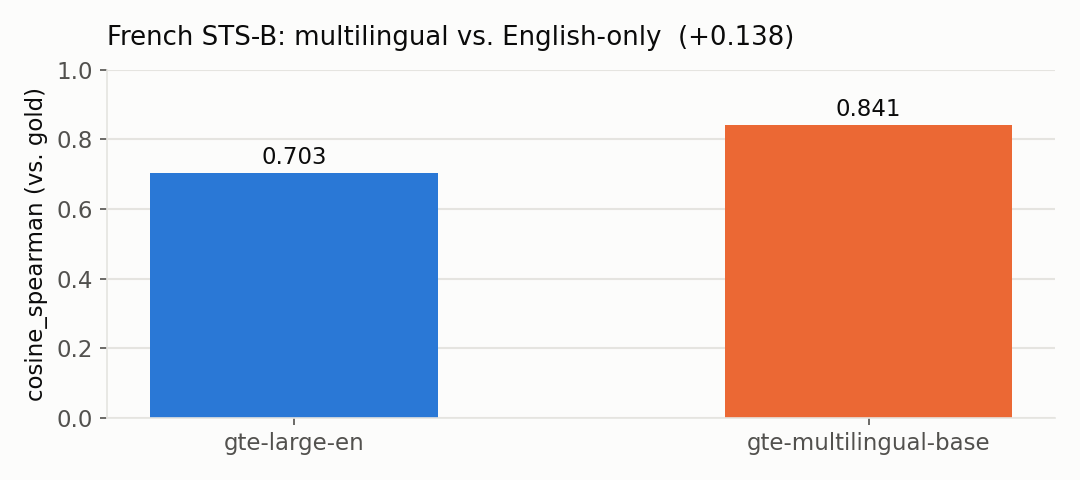
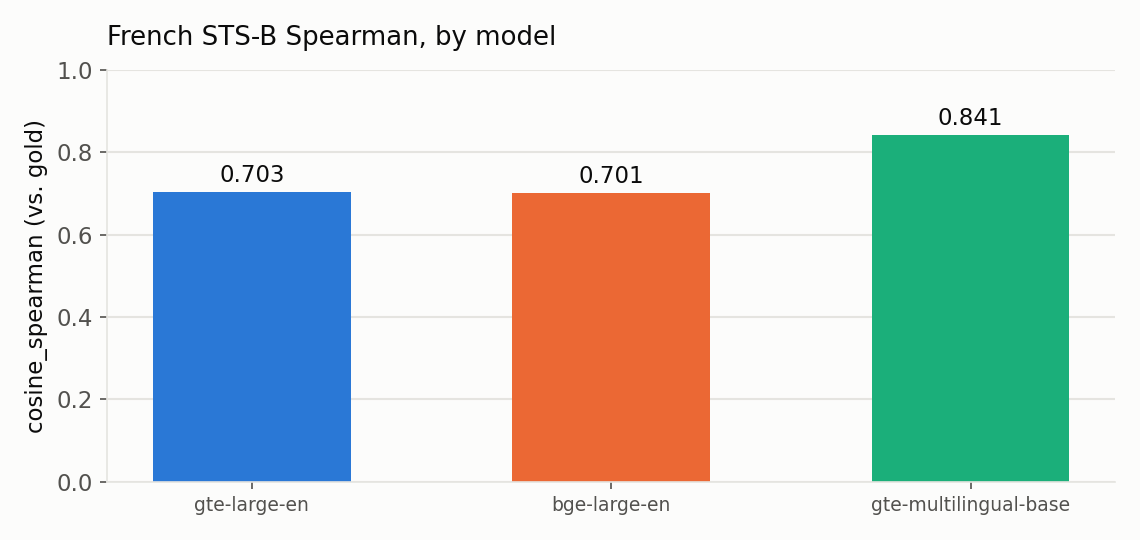
Add BGE (FMAPI) as a third model in the benchmark
Adds databricks-bge-large-en via FMAPI alongside gte-large-en (FMAPI) and
gte-multilingual-base (CPU). Three-model STS-B results:
  gte-large-en          EN 0.831  FR 0.703  FR/EN 0.846
  bge-large-en          EN 0.875  FR 0.701  FR/EN 0.801
  gte-multilingual-base EN 0.864  FR 0.841  FR/EN 0.973
BGE is best on English but drops hardest on French; the multilingual model
still wins French. Updates notebook, charts (3 models), README, SPECS, RESULTS.

diff --git a/gte-french/README.md b/gte-french/README.md
@@ -1,9 +1,11 @@
-# GTE embeddings — French vs. English benchmark
+# GTE / BGE embeddings — French vs. English benchmark
 
-How much embedding quality does the English-tuned GTE model
-(**`databricks-gte-large-en`**, served via the Databricks Foundation Model API) lose on
-**French** relative to **English** — and does the **multilingual** GTE
-(**`Alibaba-NLP/gte-multilingual-base`**, run locally on CPU) close that gap?
+How much embedding quality do English-tuned models lose on **French** vs. **English**, and
+does a **multilingual** model close that gap? Three models, same pairs and metric:
+
+- **`databricks-gte-large-en`** — Databricks FMAPI endpoint (English-tuned GTE)
+- **`databricks-bge-large-en`** — Databricks FMAPI endpoint (English-tuned BGE)
+- **`Alibaba-NLP/gte-multilingual-base`** — downloaded from HuggingFace, run locally on CPU
 
 The benchmark runs the [STS Benchmark](https://huggingface.co/datasets/PhilipMay/stsb_multi_mt)
 in parallel on both languages — the *same* 1,379 sentence pairs with *identical* gold
@@ -15,34 +17,34 @@ identical across languages, any gap is attributable to language alone.
 
 ![STS-B Spearman: English vs. French, by model](assets/sts_by_model.png)
 
-![French STS-B: multilingual vs. English-only](assets/french_model_comparison.png)
+![French STS-B Spearman, by model](assets/french_model_comparison.png)
 
 | Model | EN `cosine_spearman` | FR `cosine_spearman` | FR/EN ratio |
 |-------|---------------------:|---------------------:|------------:|
 | `gte-large-en` (FMAPI) | 0.831 | 0.703 | 0.846 |
-| `gte-multilingual-base` (CPU) | **0.864** | **0.841** | **0.973** |
+| `bge-large-en` (FMAPI) | **0.875** | 0.701 | 0.801 |
+| `gte-multilingual-base` (CPU) | 0.864 | **0.841** | **0.973** |
 
 ### Verdict
 
-The English-only `gte-large-en` score (0.831) matches its published STS-B result, which
-validates the harness. On **French** it drops to 0.703 — usable, but a **~15% relative
-penalty**.
+Both English-tuned FMAPI endpoints land at **~0.70 on French** despite strong English
+scores — `bge-large-en` is actually the best model on English (0.875) but drops the hardest
+on French (FR/EN 0.80). So a higher English score does **not** predict French quality.
 
-**`gte-multilingual-base` largely erases that penalty:** French Spearman **0.841**
-(**+0.138** over the English-only model), an FR/EN ratio of **0.97** vs. 0.85. It's even
-marginally stronger on English (0.864). For French-heavy retrieval/search, the multilingual
-model is the clear choice — at the cost of hosting it yourself (here: downloaded from
-HuggingFace and run on CPU) rather than a managed FMAPI endpoint.
+**`gte-multilingual-base` is the clear choice for French:** French Spearman **0.841**
+(+0.14 over either English-only model), an FR/EN ratio of **0.97**. The trade-off is hosting
+it yourself (here: downloaded from HuggingFace, run on CPU) rather than a managed FMAPI
+endpoint.
 
 ## Running it
 
-`benchmark_gte_french.ipynb` runs on **serverless** compute. It benchmarks two models:
+`benchmark_gte_french.ipynb` runs on **serverless** compute and benchmarks all three models:
 
-- **`gte-large-en`** via the FMAPI endpoint (no local model).
+- **`gte-large-en`** and **`bge-large-en`** via their FMAPI endpoints (no local model).
 - **`gte-multilingual-base`** downloaded from HuggingFace and run locally on CPU via
-  `sentence-transformers`. Notes baked into the notebook: pin `transformers>=4.41,<5` (the
-  model's custom code calls `ModuleUtilsMixin` helpers removed in v5); cache the model in a
-  UC Volume via a symlink-dereferenced copy (HF can't download onto a FUSE Volume); load with
+  `sentence-transformers`. Notes baked into the notebook: pin `transformers>=4.41,<5` (its
+  custom code calls `ModuleUtilsMixin` helpers removed in v5); cache the model in a UC Volume
+  via a symlink-dereferenced copy (HF can't download onto a FUSE Volume); load with
   `low_cpu_mem_usage=False` and rebuild the non-persistent `position_ids`/RoPE buffers.
 
 On first run it downloads STS-B and the model into a UC Volume and caches both; later runs
@@ -61,7 +63,7 @@ skip the downloads.
 
 | Path | What |
 |------|------|
-| [`benchmark_gte_french.ipynb`](benchmark_gte_french.ipynb) | The two-model benchmark notebook |
+| [`benchmark_gte_french.ipynb`](benchmark_gte_french.ipynb) | The three-model benchmark notebook |
 | [`test_multilingual_load.ipynb`](test_multilingual_load.ipynb) | Diagnostic: load the multilingual model on CPU |
 | [`SPEC/SPECS.md`](SPEC/SPECS.md) | Full specification (dataset, metric, method) |
 | [`SPEC/RESULTS.md`](SPEC/RESULTS.md) | Recorded run + verdict |

diff --git a/gte-french/SPEC/RESULTS.md b/gte-french/SPEC/RESULTS.md
@@ -1,9 +1,10 @@
-# Results — GTE embeddings, French vs. English (STS)
+# Results — GTE / BGE embeddings, French vs. English (STS)
 
 Run of `benchmark_gte_french.ipynb` per [`SPECS.md`](./SPECS.md).
 
-- **Models:** `databricks-gte-large-en` (FMAPI) and `Alibaba-NLP/gte-multilingual-base`
-  (downloaded from HuggingFace, run locally on CPU via `sentence-transformers`)
+- **Models:** `databricks-gte-large-en` (FMAPI), `databricks-bge-large-en` (FMAPI), and
+  `Alibaba-NLP/gte-multilingual-base` (downloaded from HuggingFace, run locally on CPU via
+  `sentence-transformers`)
 - **Dataset:** `PhilipMay/stsb_multi_mt`, `test` split, 1,379 pairs per language
 - **Metric:** Spearman correlation of cosine similarity vs. gold score (`cosine_spearman`)
 - **Compute:** serverless (CPU), workspace `e2-demo-field-eng`
@@ -13,20 +14,21 @@ Run of `benchmark_gte_french.ipynb` per [`SPECS.md`](./SPECS.md).
 
 | Model | EN spearman | EN pearson | FR spearman | FR pearson | FR/EN (spearman) |
 |-------|------------:|-----------:|------------:|-----------:|-----------------:|
-| `gte-large-en` (FMAPI) | 0.8309 | 0.8338 | 0.7032 | 0.7133 | 0.846 |
+| `gte-large-en` (FMAPI) | 0.8310 | 0.8338 | 0.7033 | 0.7133 | 0.846 |
+| `bge-large-en` (FMAPI) | 0.8751 | 0.8620 | 0.7006 | 0.7120 | 0.801 |
 | `gte-multilingual-base` (CPU) | 0.8641 | 0.8553 | 0.8411 | 0.8389 | 0.973 |
 
-**French Spearman: multilingual − English-only = +0.1379.**
+**Best on French: `gte-multilingual-base` (0.8411).**
 
 ## Verdict
 
-The English-only `gte-large-en` score (0.831) matches its published STS-B result,
-validating the harness. On French it drops to 0.703 — a ~15% relative penalty.
+Both English-tuned FMAPI endpoints land at ~0.70 on French despite strong English scores.
+`bge-large-en` is the best model on English (0.875) yet drops the hardest on French (FR/EN
+0.80, French 0.701) — a higher English score does not predict French quality.
 
-`gte-multilingual-base` largely closes the gap: French Spearman 0.841 (+0.138 over the
-English model), an FR/EN ratio of 0.97 vs. 0.85, and it is marginally stronger on English
-too (0.864). For French-heavy retrieval/search the multilingual model is the clear choice,
-at the cost of self-hosting it (CPU here) rather than using a managed FMAPI endpoint.
+`gte-multilingual-base` is the clear choice for French: French Spearman 0.841 (+0.14 over
+either English-only model), an FR/EN ratio of 0.97. The trade-off is self-hosting it (CPU
+here) rather than a managed FMAPI endpoint.
 
 ## Reproduce
 
@@ -44,3 +46,5 @@ Run `benchmark_gte_french.ipynb` on serverless. STS-B is cached to
 - Load with `low_cpu_mem_usage=False` and rebuild the non-persistent `position_ids` and RoPE
   (`inv_freq`/`cos_cached`/`sin_cached`) buffers; otherwise they can be uninitialized and
   cause an `IndexError` in the RoPE branch.
+
+(The two FMAPI models need none of this — they are queried as serving endpoints.)

diff --git a/gte-french/SPEC/SPECS.md b/gte-french/SPEC/SPECS.md
@@ -33,16 +33,17 @@ This spec defines a reproducible benchmark that answers that question.
 
 ## 3. Models under test
 
-Two GTE models, compared on the same pairs and metric:
+Three models, compared on the same pairs and metric:
 
 | Model | Access | Dimension |
 |-------|--------|-----------|
 | **`databricks-gte-large-en`** | Databricks FMAPI serving endpoint (pay-per-token) | 1024 |
+| **`databricks-bge-large-en`** | Databricks FMAPI serving endpoint (pay-per-token) | 1024 |
 | **`Alibaba-NLP/gte-multilingual-base`** | downloaded from HuggingFace, run **locally on CPU** via `sentence-transformers` | 768 |
 
 **FMAPI invocation:** MLflow deployments client —
-`deploy_client.predict(endpoint="databricks-gte-large-en", inputs={"input": [texts...]})`
-→ `data[i].embedding`.
+`deploy_client.predict(endpoint="<endpoint>", inputs={"input": [texts...]})`
+→ `data[i].embedding`, for both the GTE and BGE endpoints.
 
 **Local multilingual model (CPU):** `sentence-transformers`. Getting it to run on serverless
 CPU requires: pin `transformers>=4.41,<5` (its custom code calls `ModuleUtilsMixin` helpers
